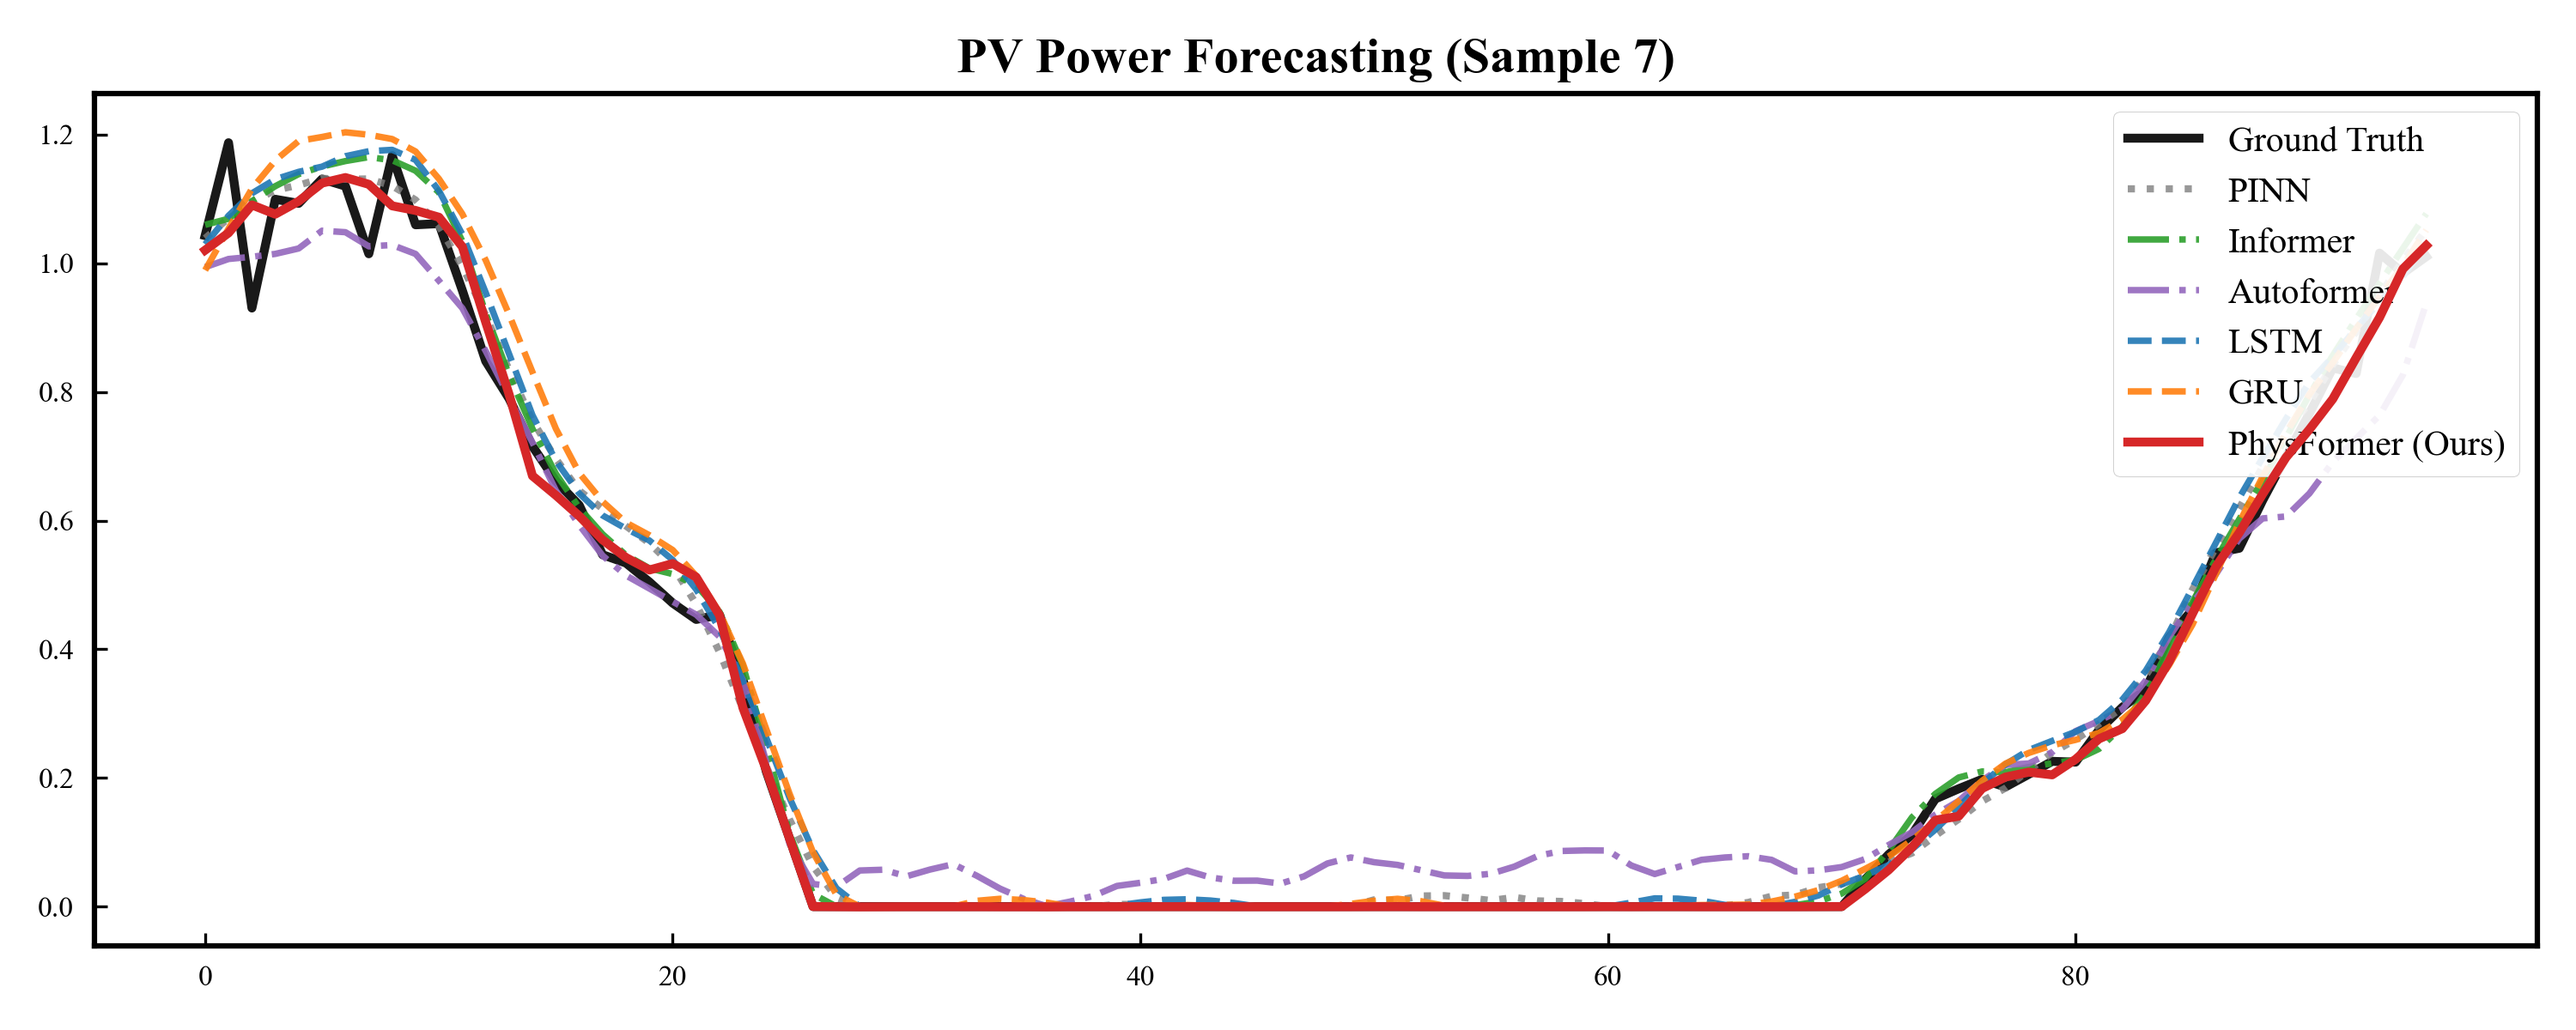
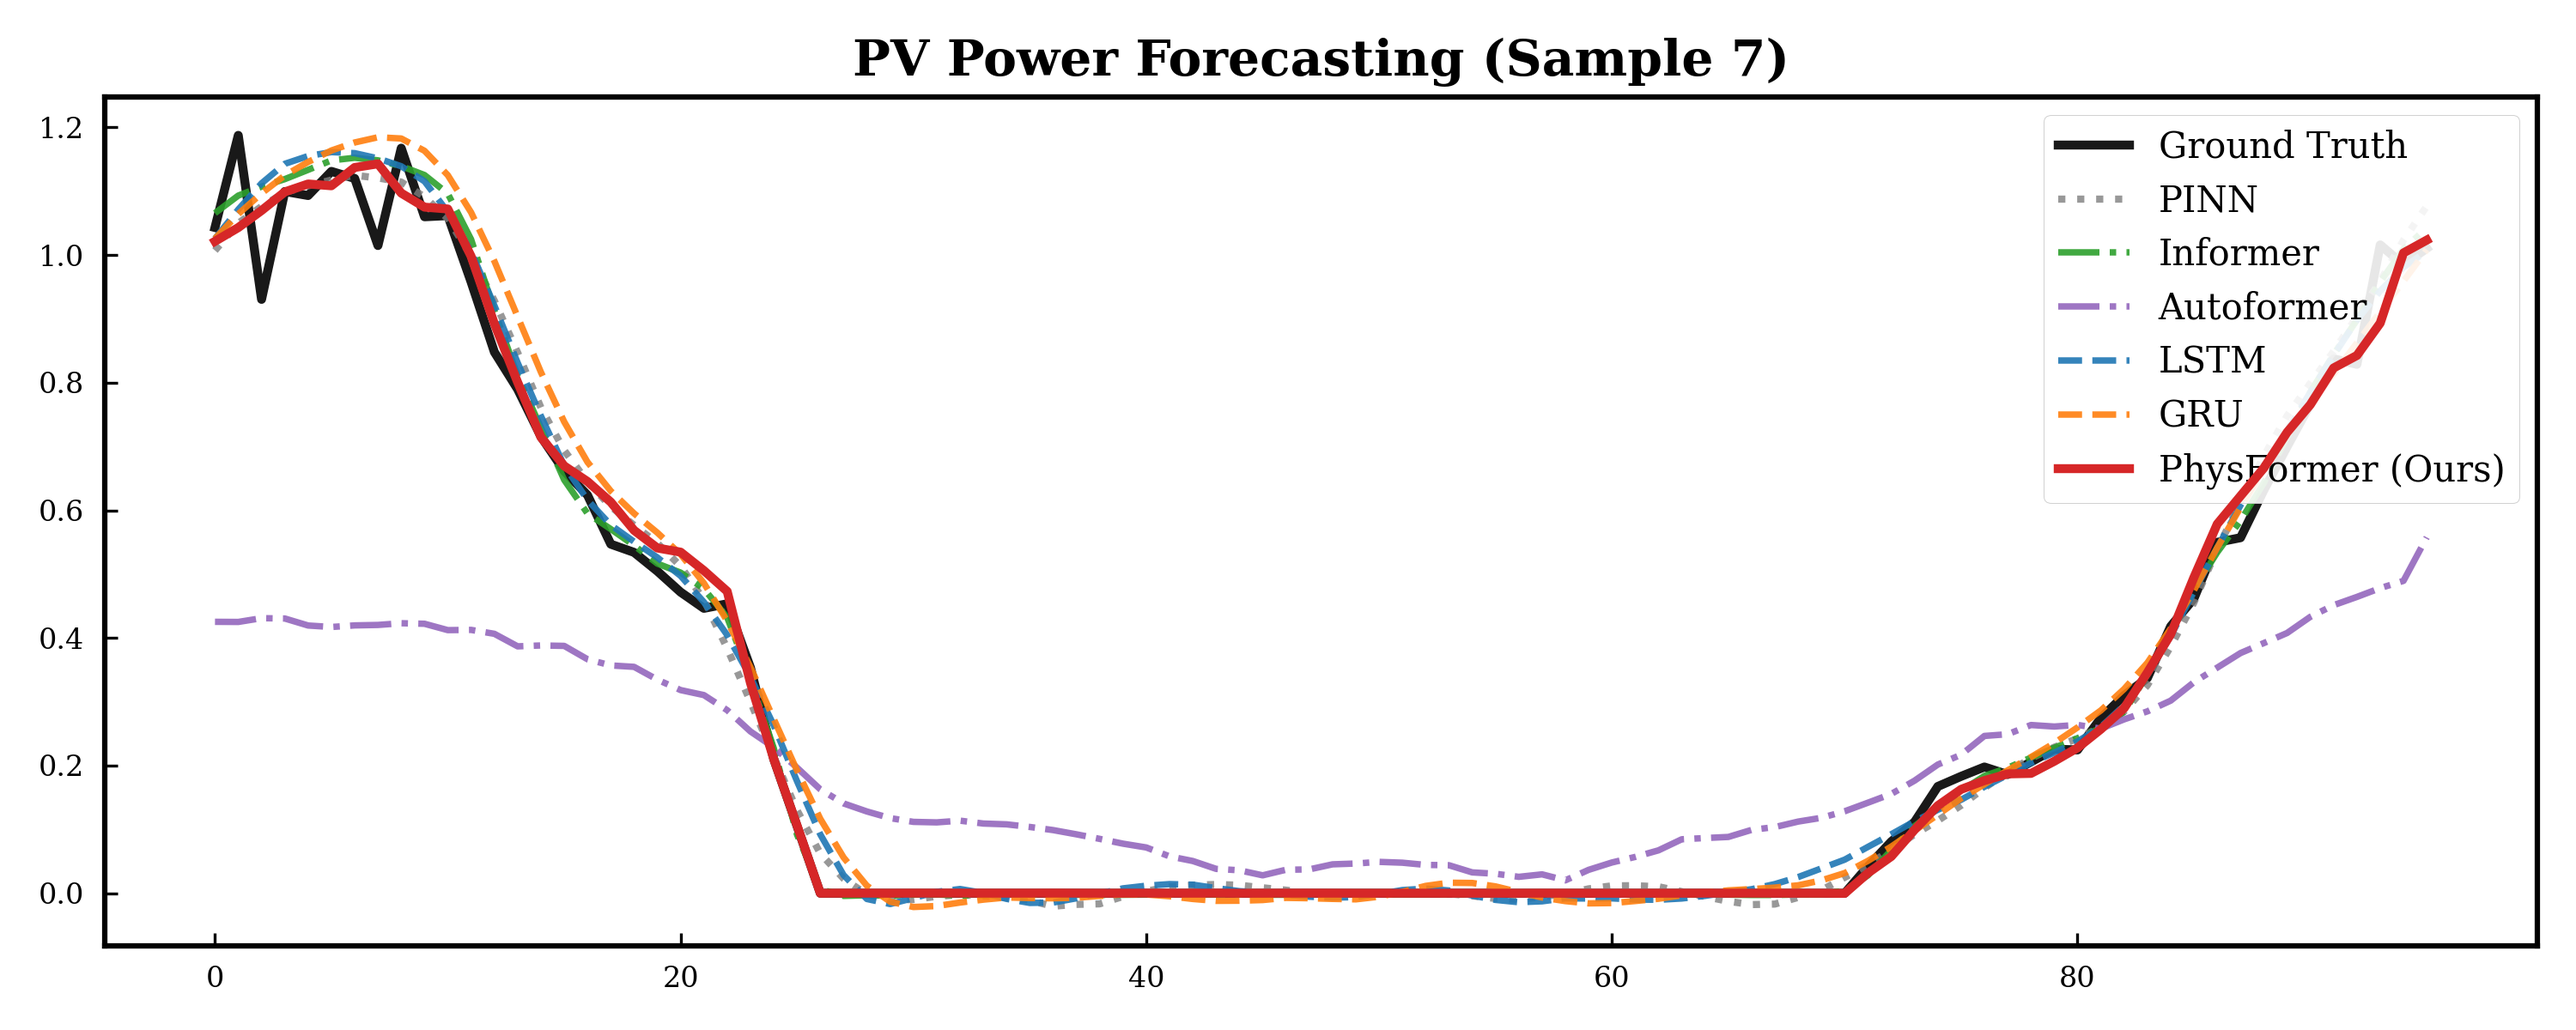
Physformer-V0.4

diff --git a/Visualizaiton/vis_paper.py b/Visualizaiton/vis_paper.py
@@ -323,7 +323,7 @@ if __name__ == "__main__":
 
     viz.load_data(model_list,
                   data_name='vpp_dataset_3years',
-                  phys_exp_name='PhysFormer_experiment_v4',
+                  phys_exp_name='PhysFormer_experiment_v5',
                   seq_len=672,
                   pred_len=96)
 
